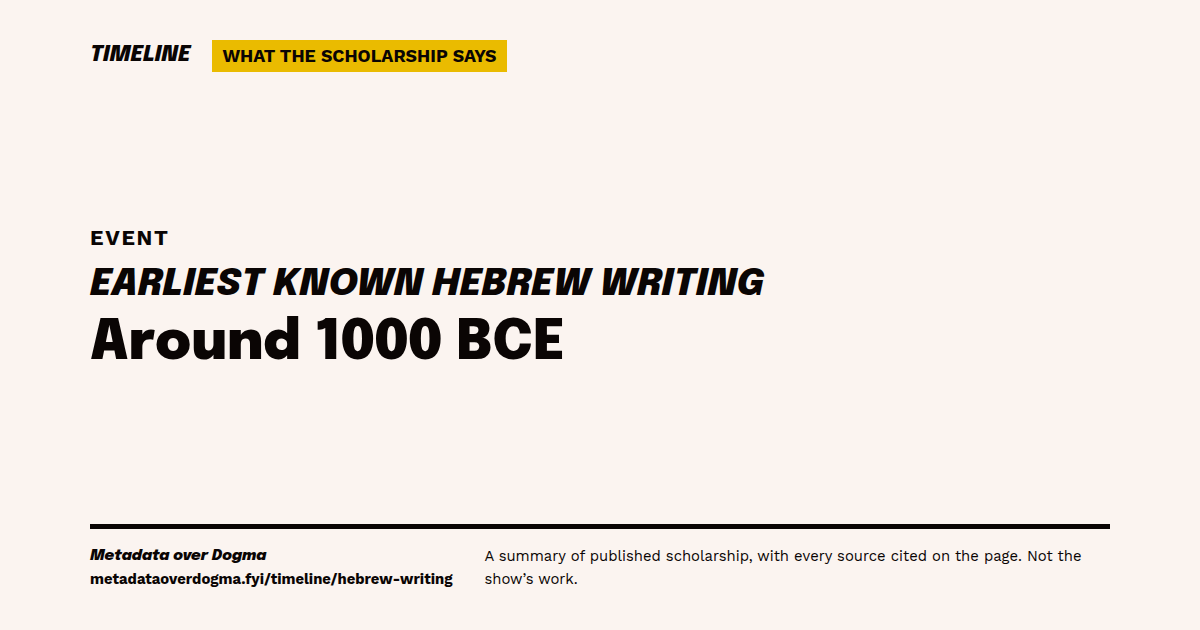
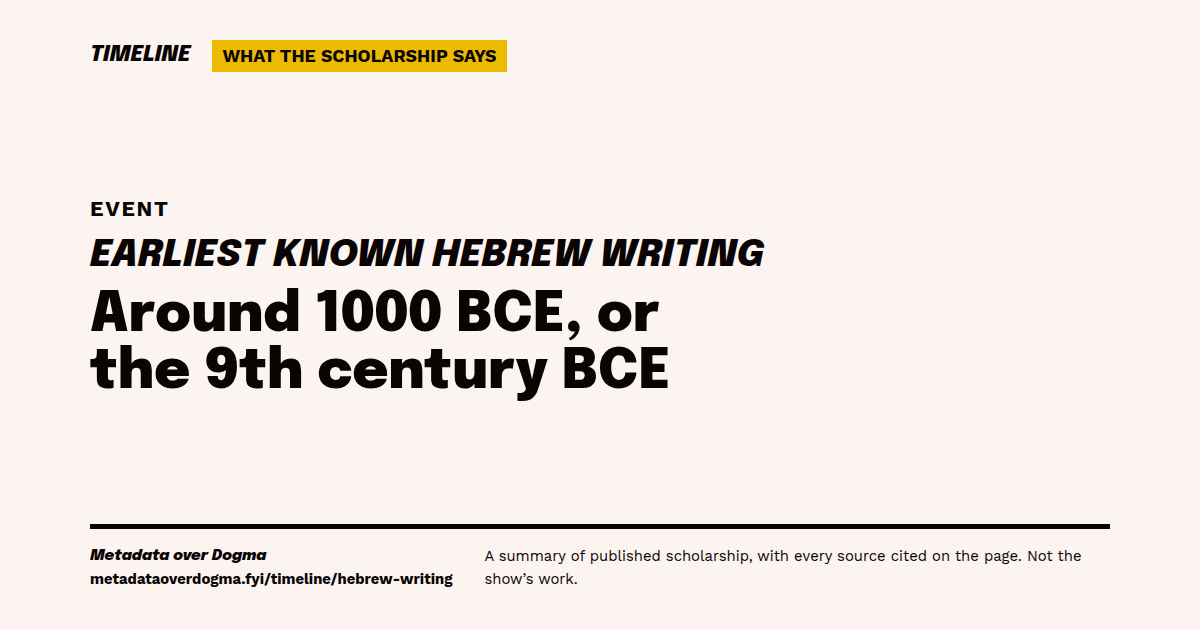
Re-review the Earliest known Hebrew writing Timeline Entry (#216)
Restore the split: Britannica's Hebrew language article dates the
earliest Hebrew inscription (in Phoenician characters) to the 9th
century BCE, beside Rubin's around 1000 BCE. Independent second pass
passed every item. Card re-rendered.

Changed region(s): [[0.0617, 0.3016, 0.6475, 0.6333]]

diff --git a/hugo/content/timeline/hebrew-writing.md b/hugo/content/timeline/hebrew-writing.md
@@ -16,13 +16,18 @@ watch:
     Qeiyafa,
   ]
 critical:
-  display: "Around 1000 BCE"
+  display: "Around 1000 BCE, or the 9th century BCE"
   from: -1000
+  to: -801
   precision: century
-  note: "One source dates the earliest known Hebrew writing to around 1000 BCE; it names no inscription."
+  note: "The sources differ. One dates the earliest known Hebrew writing to around 1000 BCE. Another dates the earliest extant Hebrew inscription of the biblical period, a short inscription in Phoenician characters, to the 9th century BCE."
   cites:
     - source: rubin-bo-where-did-hebrew-come-from
       locator: "section “Where did the Hebrew language come from?”"
       quote: "the earliest known Hebrew writing dates from only around 1000 BCE (though a few biblical texts may have been composed a couple of centuries earlier)."
+      read: 2026-11-26
+    - source: britannica-hebrew-language
+      locator: "second paragraph (“The history of the Hebrew language …”), last sentence"
+      quote: "In addition to the Bible, a small number of inscriptions in Hebrew of the biblical period are extant; the earliest of these is a short inscription in Phoenician characters dating from the 9th century BCE."
       read: 2026-11-26
 ---
